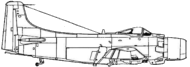
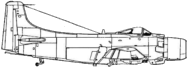
deadSprite

diff --git a/shilka2/Aircraft.cs b/shilka2/Aircraft.cs
@@ -79,7 +79,7 @@ namespace shilka2
                     {
                         aircraft.y += Constants.TANGAGE_DEAD_SPEED * (rand.NextDouble() * 2 - 1) + 4;
 
-                        if (aircraft.dynamicElemets.Count == 0)
+                        if (aircraft.dynamicElemets.Count == 0 || aircraft.deadSprite)
                         {
                             double angle = (aircraft.lightweight ?
                                 Constants.ANGLE_OF_ATTACK_CHANGE_LIGHT : Constants.ANGLE_OF_ATTACK_CHANGE_HEAVY
@@ -456,6 +456,7 @@ namespace shilka2
             newAircraft.airliner = aircraft.airliner;
             newAircraft.cloud = aircraft.cloud;
             newAircraft.cantEscape = aircraft.cantEscape;
+            newAircraft.deadSprite = aircraft.deadSprite;
             newAircraft.lightweight = aircraft.lightweight;
 
             newAircraft.fly = true;
@@ -477,6 +478,14 @@ namespace shilka2
             else
             {
                 aircraft.dead = true;
+
+                if (aircraft.deadSprite)
+                {
+                    foreach (DynamicElement d in aircraft.dynamicElemets)
+                        main.firePlace.Children.Remove(d.element);
+
+                    aircraft.aircraftImage.Source = ImageFromResources(aircraft.aircraftType + "_dead");
+                }
 
                 Statistic.staticticAircraftShutdown++;
                 Statistic.statisticAmountOfDamage += aircraft.price;

diff --git a/shilka2/Aircrafts.cs b/shilka2/Aircrafts.cs
@@ -478,15 +478,16 @@ namespace shilka2
                 aircraftType = "a1",
                 aircraftName = "A-1 Skyraider",
                 hitPoint = 80,
-                size = new int[] { 190, 67 },
+                size = new int[] { 195, 67 },
                 speed = 7,
                 price = 0.4,
                 cantEscape = true,
+                deadSprite = true,
                 elements = new List<DynamicElement> {
                     new DynamicElement {
                         elementName = "ltl_prop",
                         y = 19,
-                        x_left = -6,
+                        x_left = -1,
                         x_right = 183,
                         movingType = DynamicElement.MovingType.yRotate,
                         mirror = true

diff --git a/shilka2/Shell.cs b/shilka2/Shell.cs
@@ -81,10 +81,7 @@ namespace shilka2
                             Statistic.staticticInTarget++;
 
                             if (aircraft.hitpoint <= 0 && !aircraft.dead)
-                            {
                                 Aircraft.Shutdown(aircraft, main);
-                                aircraft.dead = true;
-                            }
 
                             main.firePlace.Children.Add(shellTrace);
                             Canvas.SetZIndex(shellTrace, 20);

diff --git a/shilka2/AircraftsType.cs b/shilka2/AircraftsType.cs
@@ -26,6 +26,7 @@ namespace shilka2
         public bool airliner = false;
         public bool cloud = false;
         public bool cantEscape = false;
+        public bool deadSprite = false;
         public bool doesNotFlyInBadWeather = false;
         public bool lightweight = false;
     }
